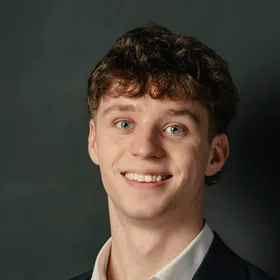
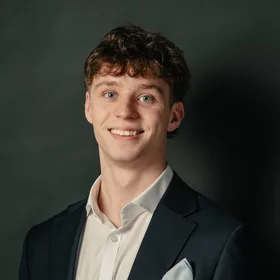
Headshot: wider framing

diff --git a/index.html b/index.html
@@ -630,7 +630,7 @@ addEventListener('pagereveal', function (e) {
       <path transform="translate(15.52 30) scale(0.0100 -0.0100)" fill="currentColor" d="M1376 1238H388L505 1266L268 959L208 975L378 1426H417L511 1333L430 1352H1411L1310 1333L1468 1426H1506L1409 960H1351L1308 1266ZM800 1283H1008L646 96L787 50L772 0H260L275 50L439 99Z"/>
     </svg>
   </a>
-  <picture class="te__photo"><source type="image/webp" srcset="/images/home/logan-160.webp?v=4"><img src="/images/home/logan-160.jpg?v=4" alt="" width="32" height="32" decoding="async"></picture>
+  <picture class="te__photo"><source type="image/webp" srcset="/images/home/logan-160.webp?v=5"><img src="/images/home/logan-160.jpg?v=5" alt="" width="32" height="32" decoding="async"></picture>
   <p class="te__who"><span class="te__who-n">Logan Tempany</span><span class="te__who-x"> · </span>Tempany Web Studios<span class="te__who-x">, Dollar</span></p>
   <nav class="te__nav" aria-label="Sections of this page">
     <ul>
@@ -1079,8 +1079,8 @@ addEventListener('pagereveal', function (e) {
   <section id="me" class="act act--me" aria-labelledby="me-h">
     <div class="wrap me">
       <picture class="me__photo">
-        <source type="image/webp" srcset="/images/home/logan-280.webp?v=4 280w, /images/home/logan-480.webp?v=4 480w" sizes="(min-width: 720px) 200px, 140px">
-        <img src="/images/home/logan-280.jpg?v=4" srcset="/images/home/logan-280.jpg?v=4 280w, /images/home/logan-480.jpg?v=4 480w" sizes="(min-width: 720px) 200px, 140px" alt="Logan Tempany, who designs, writes and builds every site." width="200" height="200" loading="lazy" decoding="async">
+        <source type="image/webp" srcset="/images/home/logan-280.webp?v=5 280w, /images/home/logan-480.webp?v=5 480w" sizes="(min-width: 720px) 200px, 140px">
+        <img src="/images/home/logan-280.jpg?v=5" srcset="/images/home/logan-280.jpg?v=5 280w, /images/home/logan-480.jpg?v=5 480w" sizes="(min-width: 720px) 200px, 140px" alt="Logan Tempany, who designs, writes and builds every site." width="200" height="200" loading="lazy" decoding="async">
       </picture>
       <div class="me__text">
         <h2 id="me-h">It's just me.</h2>
